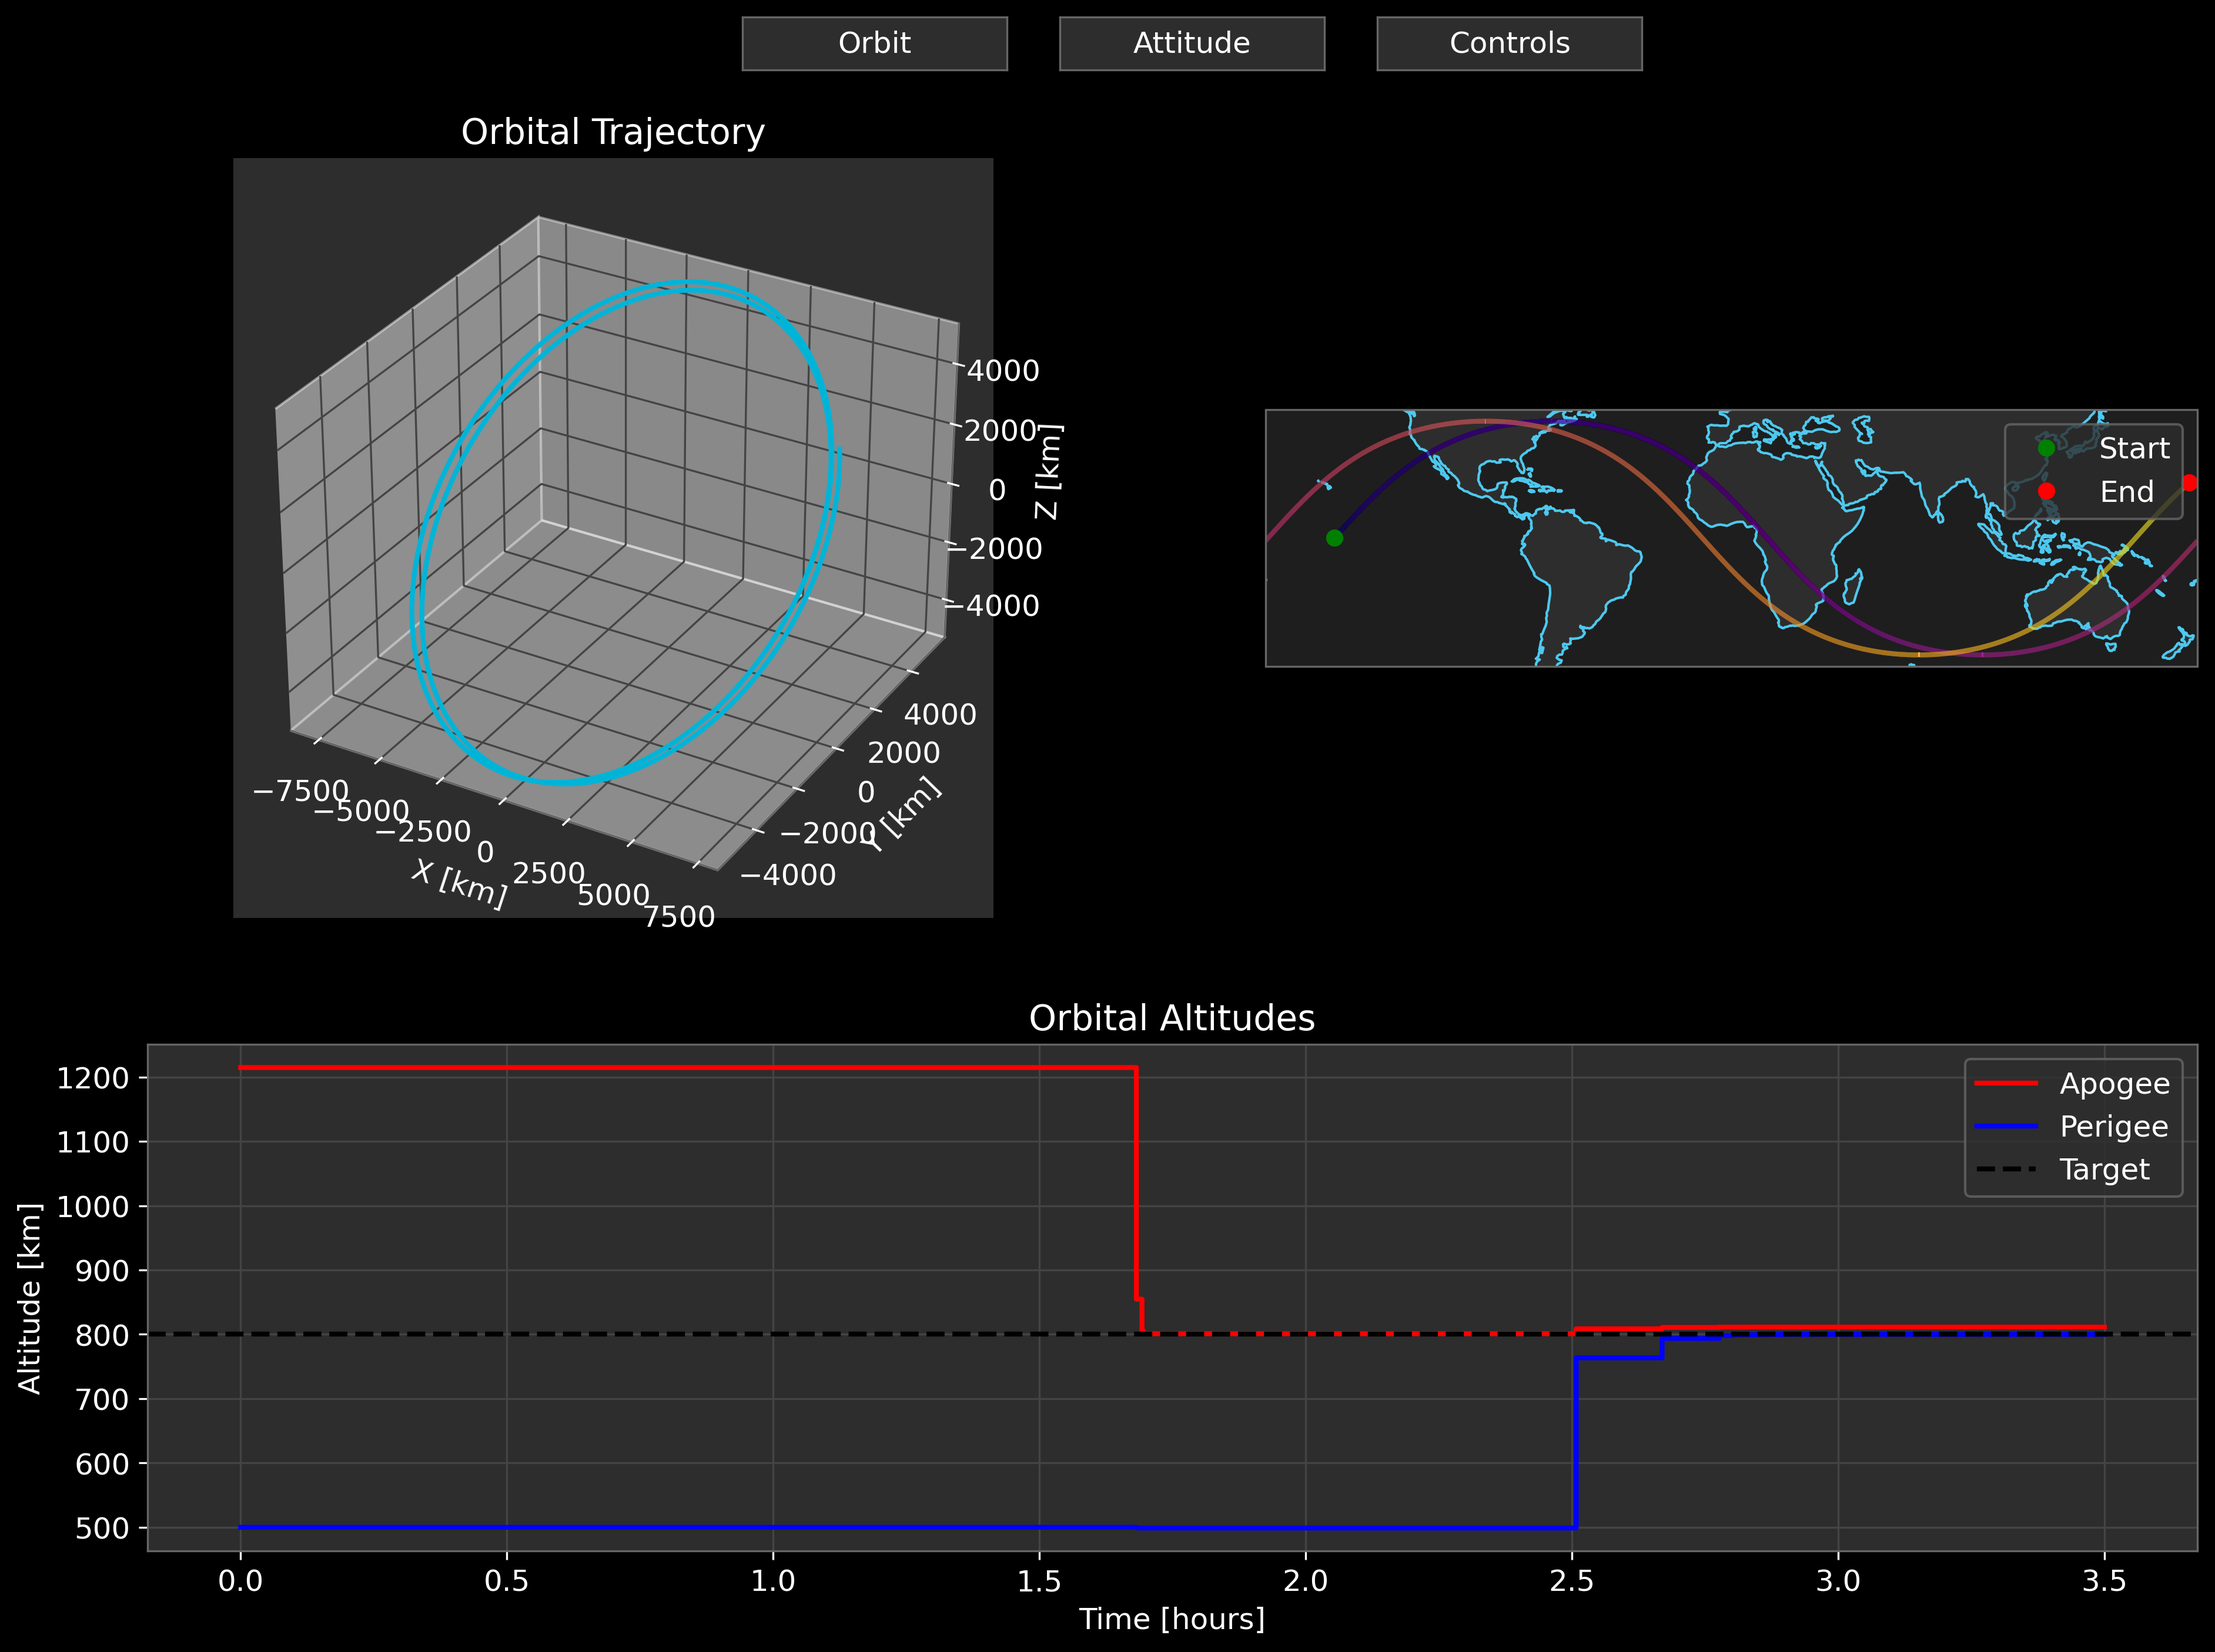
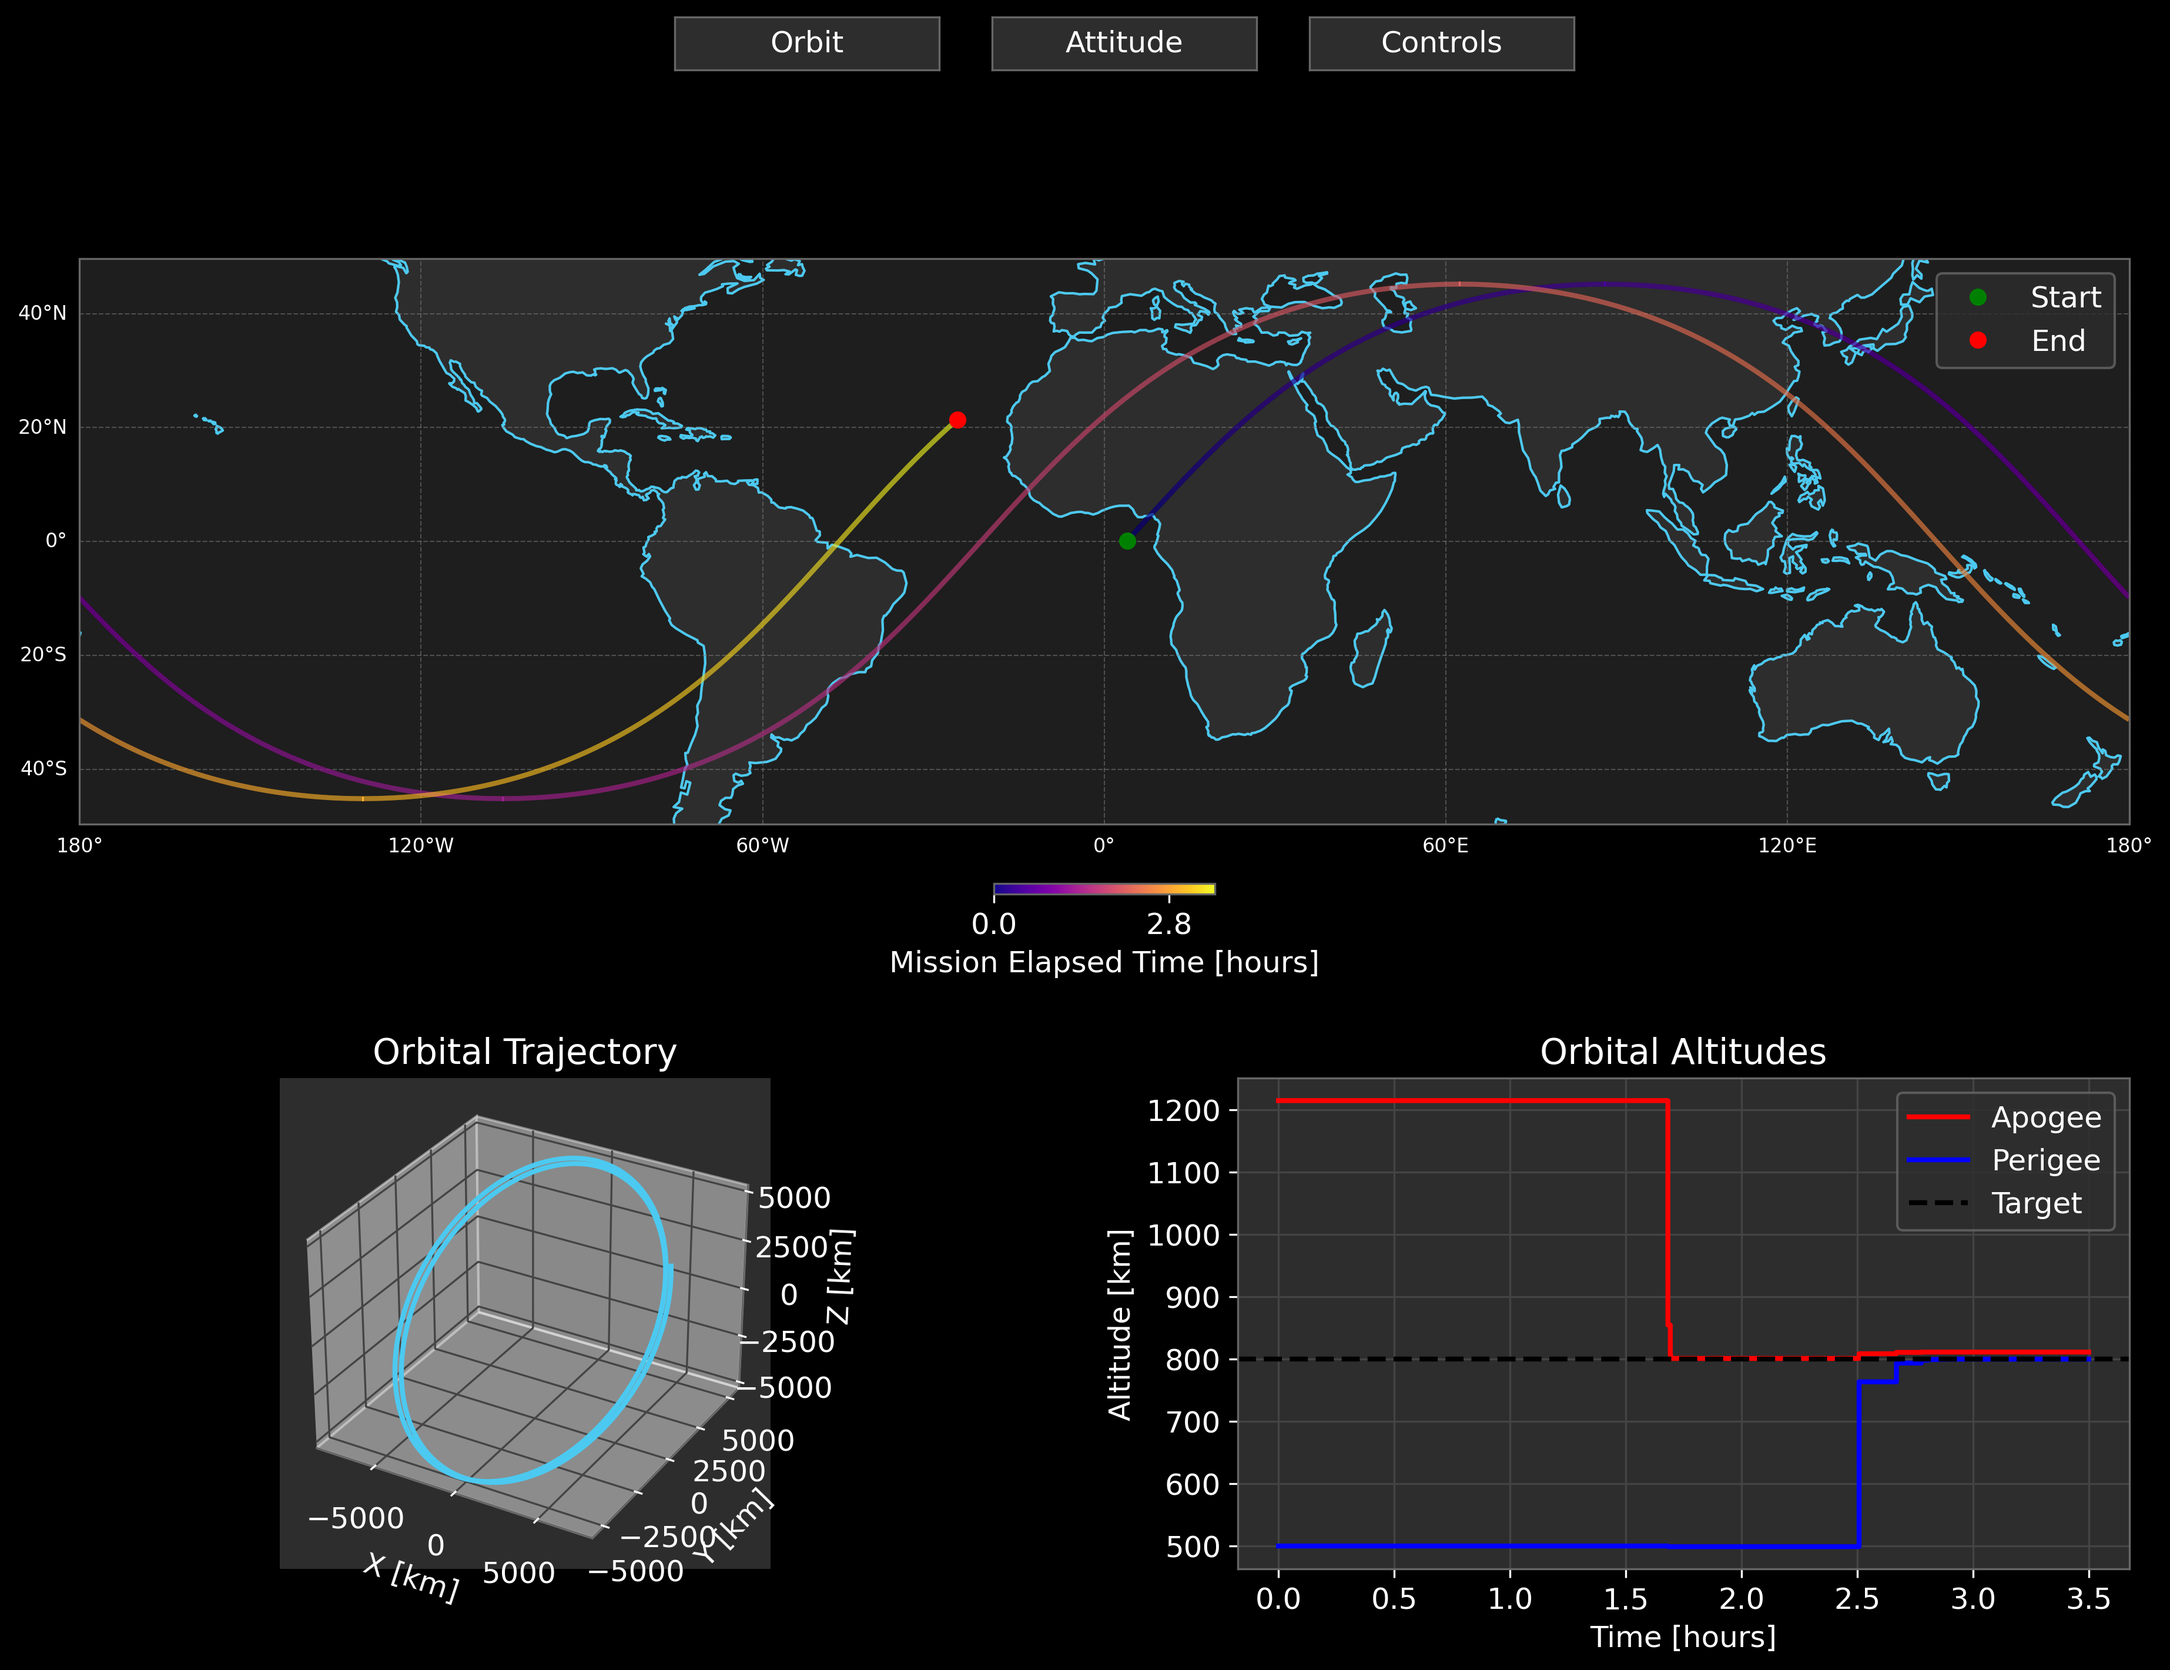
mission dashboard enhancement

diff --git a/viz/plotMissionDashboard.py b/viz/plotMissionDashboard.py
@@ -16,6 +16,8 @@ import cartopy.crs as ccrs
 import cartopy.feature as cfeature
 import cartopy.mpl.gridliner as gd
 from matplotlib.widgets import Button
+import cartopy.feature as cfeature
+import cartopy.mpl.ticker as mticker
 
 # Add this near the top of the file, after imports but before any other functions
 def add_gradient_background(ax):
@@ -52,8 +54,8 @@ plt.rcParams.update({
     'legend.edgecolor': '#666666'
 })
 
-# Define a modern color palette
-colors = ['#00b4d8', '#f72585', '#4cc9f0', '#7209b7', '#48cae4', '#3a0ca3']
+# Define a modern color palette with more distinct colors
+colors = ['#4cc9f0', '#f72585', '#ffd60a', '#7209b7', '#00f5d4', '#ff9e00']
 plt.rcParams['axes.prop_cycle'] = plt.cycler(color=colors)
 
 # Get absolute paths
@@ -111,41 +113,70 @@ def create_dashboard(fig):
     def create_orbit_tab(event=None):
         global buttons
         fig.clear()
-        gs = fig.add_gridspec(2, 2, height_ratios=[1.5, 1], top=0.9)
         
-        # Ground Track (large, top right)
-        ax_map = fig.add_subplot(gs[0, 1:], projection=ccrs.PlateCarree())
+        # Adjust gridspec to add more spacing
+        gs = fig.add_gridspec(2, 2, height_ratios=[1.5, 1], top=0.9, bottom=0.1,
+                             hspace=0.3, wspace=0.3)  # Increased horizontal and vertical spacing
+        
+        # Ground Track (full width, top)
+        ax_map = fig.add_subplot(gs[0, :], projection=ccrs.PlateCarree())
         ax_map.add_feature(cfeature.LAND, facecolor='#2d2d2d', edgecolor='#666666')
         ax_map.add_feature(cfeature.OCEAN, facecolor='#1e1e1e')
         ax_map.add_feature(cfeature.COASTLINE, edgecolor='#4cc9f0', linewidth=1)
         
+        # Add gridlines
+        gl = ax_map.gridlines(draw_labels=True, x_inline=False, y_inline=False,
+                             linewidth=0.5, color='gray', alpha=0.5, linestyle='--')
+        
+        # Customize gridline labels
+        gl.top_labels = False  # Don't show labels at top
+        gl.right_labels = False  # Don't show labels at right
+        gl.xlabel_style = {'size': 8, 'color': 'white'}
+        gl.ylabel_style = {'size': 8, 'color': 'white'}
+        
+        # Set grid line spacing using Cartopy's methods
+        gl.xlines = True
+        gl.ylines = True
+        gl.xlocator = mticker.LongitudeLocator(nbins=6)  # ~60 degree spacing
+        gl.ylocator = mticker.LatitudeLocator(nbins=6)   # ~30 degree spacing
+        gl.xformatter = mticker.LongitudeFormatter()
+        gl.yformatter = mticker.LatitudeFormatter()
+        
         # Plot ground track with time-based coloring
         jumps = np.where(np.abs(np.diff(df['lon'])) > 300)[0]
+        norm = plt.Normalize(df['time'].min(), df['time'].max())
+        
         for lon_seg, lat_seg, time_seg in zip(np.split(df['lon'], jumps + 1),
                                             np.split(df['lat'], jumps + 1),
                                             np.split(df['time'], jumps + 1)):
             points = np.array([lon_seg, lat_seg]).T.reshape(-1, 1, 2)
             segments = np.concatenate([points[:-1], points[1:]], axis=1)
-            lc = LineCollection(segments, cmap='plasma', 
-                              norm=plt.Normalize(df['time'].min(), df['time'].max()))
+            lc = LineCollection(segments, cmap='plasma', norm=norm)
             lc.set_array(time_seg[:-1])
             ax_map.add_collection(lc)
+        
+        # Add colorbar with adjusted positioning
+        cbar = plt.colorbar(lc, ax=ax_map, orientation='horizontal', 
+                           pad=0.08,  # Increased padding between plot and colorbar
+                           fraction=0.015)  # Slightly smaller colorbar height
+        cbar.set_label('Mission Elapsed Time [hours]')
+        cbar.ax.xaxis.set_major_formatter(plt.FuncFormatter(lambda x, p: f'{x/3600:.1f}'))
         
         # Add start/end markers
         ax_map.plot(df['lon'].iloc[0], df['lat'].iloc[0], 'go', label='Start')
         ax_map.plot(df['lon'].iloc[-1], df['lat'].iloc[-1], 'ro', label='End')
         ax_map.legend()
         
-        # 3D Trajectory (top left)
-        ax_3d = fig.add_subplot(gs[0, 0], projection='3d')
+        # 3D Trajectory (bottom left)
+        ax_3d = fig.add_subplot(gs[1, 0], projection='3d')
         ax_3d.plot(df['x']/1000, df['y']/1000, df['z']/1000)
         ax_3d.set_xlabel('X [km]')
         ax_3d.set_ylabel('Y [km]')
         ax_3d.set_zlabel('Z [km]')
         ax_3d.set_title('Orbital Trajectory')
         
-        # Orbital Altitudes (bottom)
-        ax_alt = fig.add_subplot(gs[1, :])
+        # Orbital Altitudes (bottom right)
+        ax_alt = fig.add_subplot(gs[1, 1])
         ax_alt.plot(df['time']/3600, df['apogee_alt'], 'r-', label='Apogee')
         ax_alt.plot(df['time']/3600, df['perigee_alt'], 'b-', label='Perigee')
         ax_alt.axhline(y=800, color='k', linestyle='--', label='Target')
